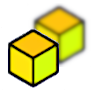
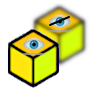
Implemented swap visible functionality

Changed region(s): [[0.234, 0.383, 0.4894, 0.5957], [0.5106, 0.1489, 0.766, 0.2979], [0.5106, 0.3191, 0.766, 0.3404]]

diff --git a/GLWidget.cpp b/GLWidget.cpp
@@ -673,7 +673,7 @@ void GLWidget::updateBoundingSphere()
     _boundingSphere.setCenter(0, 0, 0);
     _boundingSphere.setRadius(0.0);
 
-    for (int i : _displayedObjectsIds)
+    for (int i : _visibleSwapped ? _hiddenObjectsIds : _displayedObjectsIds)
     {
         try
         {
@@ -856,6 +856,14 @@ void GLWidget::showModelLoadingProgress(int nodeNum, int totalNodes)
     MainWindow::showStatusMessage(QString("Processing node: %1/%2").arg(nodeNum).arg(totalNodes));
     MainWindow::setProgressValue((int)((float)nodeNum/(float)totalNodes*100.0f));
     makeCurrent();
+}
+
+void GLWidget::swapVisible(bool checked)
+{
+    _visibleSwapped = checked;
+    updateBoundingSphere();
+    fitAll();
+    emit visibleSwapped(checked);
 }
 
 void GLWidget::enableADSDiffuseTexMap(const std::vector<int>& ids, const bool& enable)
@@ -2283,12 +2291,18 @@ void GLWidget::resizeGL(int width, int height)
 
 void GLWidget::paintGL()
 {
+    QColor topColor = !_visibleSwapped ? _bgTopColor : QColor::fromRgbF(1.0f - _bgTopColor.redF(),
+                                                             1.0f - _bgTopColor.greenF(), 1.0f - _bgTopColor.blueF(),
+                                                             _bgTopColor.alphaF());
+    QColor botColor = !_visibleSwapped ? _bgBotColor : QColor::fromRgbF(1.0f - _bgBotColor.redF(),
+                                                             1.0f - _bgBotColor.greenF(), 1.0f - _bgBotColor.blueF(),
+                                                             _bgBotColor.alphaF());
     try
     {
         glClear(GL_COLOR_BUFFER_BIT | GL_DEPTH_BUFFER_BIT | GL_STENCIL_BUFFER_BIT);
 
-        gradientBackground(_bgTopColor.redF(), _bgTopColor.greenF(), _bgTopColor.blueF(), _bgTopColor.alphaF(),
-                           _bgBotColor.redF(), _bgBotColor.greenF(), _bgBotColor.blueF(), _bgBotColor.alphaF());
+        gradientBackground(topColor.redF(), topColor.greenF(), topColor.blueF(), topColor.alphaF(),
+                           botColor.redF(), botColor.greenF(), botColor.blueF(), botColor.alphaF());
 
         _modelMatrix.setToIdentity();
         if (_multiViewActive)
@@ -2296,8 +2310,8 @@ void GLWidget::paintGL()
             glViewport(0, 0, width(), height());
             if (_shadowsEnabled)
                 renderToShadowBuffer();
-            gradientBackground(_bgTopColor.redF(), _bgTopColor.greenF(), _bgTopColor.blueF(), _bgTopColor.alphaF(),
-                               _bgBotColor.redF(), _bgBotColor.greenF(), _bgBotColor.blueF(), _bgBotColor.alphaF());
+            gradientBackground(topColor.redF(), topColor.greenF(), topColor.blueF(), topColor.alphaF(),
+                               botColor.redF(), botColor.greenF(), botColor.blueF(), botColor.alphaF());
             // Render orthographic views with ortho view camera
             // Top View
             _orthoViewsCamera->setScreenSize(width() / 2, height() / 2);
@@ -2345,8 +2359,8 @@ void GLWidget::paintGL()
 
             glClear(GL_COLOR_BUFFER_BIT | GL_DEPTH_BUFFER_BIT);
 
-            gradientBackground(_bgTopColor.redF(), _bgTopColor.greenF(), _bgTopColor.blueF(), _bgTopColor.alphaF(),
-                               _bgBotColor.redF(), _bgBotColor.greenF(), _bgBotColor.blueF(), _bgBotColor.alphaF());
+            gradientBackground(topColor.redF(), topColor.greenF(), topColor.blueF(), topColor.alphaF(),
+                               botColor.redF(), botColor.greenF(), botColor.blueF(), botColor.alphaF());
             render(_primaryCamera);
             drawCornerAxis();
         }
@@ -2507,7 +2521,7 @@ void GLWidget::drawMesh(QOpenGLShaderProgram* prog)
     // Render
     if (_meshStore.size() != 0)
     {
-        for (int i : _displayedObjectsIds)
+        for (int i : _visibleSwapped ? _hiddenObjectsIds : _displayedObjectsIds)
         {
             try
             {
@@ -2656,7 +2670,7 @@ void GLWidget::drawVertexNormals()
 
     if (_meshStore.size() != 0)
     {
-        for (int i : _displayedObjectsIds)
+        for (int i : _visibleSwapped ? _hiddenObjectsIds : _displayedObjectsIds)
         {
             if (_showVertexNormals)
             {
@@ -2675,7 +2689,7 @@ void GLWidget::drawFaceNormals()
 
     if (_meshStore.size() != 0)
     {
-        for (int i : _displayedObjectsIds)
+        for (int i : _visibleSwapped ? _hiddenObjectsIds : _displayedObjectsIds)
         {
             if (_showFaceNormals)
             {
@@ -3031,7 +3045,7 @@ void GLWidget::renderToShadowBuffer()
     _shadowMappingShader->setUniformValue("model", _modelMatrix);
     if (_meshStore.size() != 0)
     {
-        for (int i : _displayedObjectsIds)
+        for (int i : _visibleSwapped ? _hiddenObjectsIds : _displayedObjectsIds)
         {
             try
             {
@@ -3435,7 +3449,7 @@ void GLWidget::keyPressEvent(QKeyEvent* event)
         if(event->modifiers()& Qt::ShiftModifier)
             _viewer->showOnlySelectedItems();
         else
-            _viewer->hideSelectedItems();
+            _visibleSwapped ? _viewer->showSelectedItems() : _viewer->hideSelectedItems();
     }
 
     update();
@@ -3748,7 +3762,8 @@ int GLWidget::mouseSelect(const QPoint& pixel)
 {
     int id = -1;
 
-    if (!_displayedObjectsIds.size())
+    //if (!_displayedObjectsIds.size())
+    if(_visibleSwapped ? !_hiddenObjectsIds.size() : !_displayedObjectsIds.size())
     {
         emit singleSelectionDone(id);
         return id;
@@ -3779,7 +3794,7 @@ int GLWidget::mouseSelect(const QPoint& pixel)
     auto start = high_resolution_clock::now();
 
     QMap<int, float> selectedIdsDist;
-    for (int i : _displayedObjectsIds)
+    for (int i : _visibleSwapped ? _hiddenObjectsIds : _displayedObjectsIds)
     {
         TriangleMesh* mesh = _meshStore.at(i);
         if (mesh->getBoundingSphere().intersectsWithRay(rayPos, rayDir))
@@ -3836,7 +3851,8 @@ QList<int> GLWidget::sweepSelect(const QPoint& pixel)
 {
     _selectedIDs.clear();
 
-    if (!_displayedObjectsIds.size())
+    //if (!_displayedObjectsIds.size())
+    if(_visibleSwapped ? !_hiddenObjectsIds.size() : !_displayedObjectsIds.size())
         return _selectedIDs;
 
     QRect rubberRect = _rubberBand->geometry();
@@ -3847,7 +3863,7 @@ QList<int> GLWidget::sweepSelect(const QPoint& pixel)
 
     QRect viewport = getViewportFromPoint(pixel);
     QApplication::setOverrideCursor(Qt::WaitCursor);
-    for (int i : _displayedObjectsIds)
+    for (int i : _visibleSwapped ? _hiddenObjectsIds : _displayedObjectsIds)
     {
         TriangleMesh* mesh = _meshStore.at(i);
         QRect objRect = mesh->getBoundingBox().project(_viewMatrix * _modelMatrix, _projectionMatrix, viewport, geometry());
@@ -4212,7 +4228,7 @@ void GLWidget::setXTran(const float& xTran)
 float GLWidget::highestModelZ()
 {
     float highestZ = std::numeric_limits<float>::min();
-    for (int i : _displayedObjectsIds)
+    for (int i : _visibleSwapped ? _hiddenObjectsIds : _displayedObjectsIds)
     {
         try
         {
@@ -4233,7 +4249,7 @@ float GLWidget::highestModelZ()
 float GLWidget::lowestModelZ()
 {
     float lowestZ = std::numeric_limits<float>::max();
-    for (int i : _displayedObjectsIds)
+    for (int i : _visibleSwapped ? _hiddenObjectsIds : _displayedObjectsIds)
     {
         try
         {
@@ -4283,6 +4299,11 @@ void GLWidget::showContextMenu(const QPoint& pos)
             myMenu.addAction(QIcon(":/new/prefix1/res/zoomview.png"), "Zoom", _viewer, SLOT(on_toolButtonZoomView_clicked()));
             myMenu.addAction(QIcon(":/new/prefix1/res/panview.png"), "Pan", _viewer, SLOT(on_toolButtonPanView_clicked()));
             myMenu.addAction(QIcon(":/new/prefix1/res/rotateview.png"), "Rotate", _viewer, SLOT(on_toolButtonRotateView_clicked()));
+            myMenu.addSeparator();
+            action = myMenu.addAction(QIcon(":/new/prefix1/res/swapvisible.png"), "Swap Visible");
+            action->setCheckable(true);
+            action->setChecked(_visibleSwapped);
+            connect(action, SIGNAL(triggered(bool)), _viewer, SLOT(on_toolButtonSwapVisible_clicked(bool)));
             myMenu.addSeparator();
             myMenu.addAction("Background Color", this, SLOT(setBackgroundColor()));
         }

diff --git a/ModelViewer.cpp b/ModelViewer.cpp
@@ -107,10 +107,11 @@ ModelViewer::ModelViewer(QWidget* parent) : QWidget(parent)
     connect(_glWidget, &GLWidget::windowZoomEnded, this, [this](){
                 if(toolButtonWindowZoom->isChecked())
                     toolButtonWindowZoom->setChecked(false);
-    });
+    });    
 	connect(_glWidget, SIGNAL(singleSelectionDone(int)), this, SLOT(setListRow(int)));
 	connect(_glWidget, SIGNAL(sweepSelectionDone(QList<int>)), this, SLOT(setListRows(QList<int>)));
 	connect(_glWidget, SIGNAL(floorShown(bool)), checkBoxFloor, SLOT(setChecked(bool)));
+    connect(_glWidget, SIGNAL(visibleSwapped(bool)), toolButtonSwapVisible, SLOT(setChecked(bool)));
 
 	listWidgetModel->setContextMenuPolicy(Qt::CustomContextMenu);
 	connect(listWidgetModel, SIGNAL(customContextMenuRequested(QPoint)), this, SLOT(showContextMenu(QPoint)));
@@ -645,6 +646,7 @@ void ModelViewer::showSelectedItems()
 	for (QListWidgetItem* item : selectedItems)
 	{
 		item->setCheckState(Qt::Checked);
+        item->setSelected(false);
 	}
 }
 
@@ -2801,4 +2803,9 @@ void ModelViewer::on_pushButtonClearADSTextures_clicked()
 		_glWidget->updateView();
 		QApplication::restoreOverrideCursor();
 	}
+}
+
+void ModelViewer::on_toolButtonSwapVisible_clicked(bool checked)
+{
+    _glWidget->swapVisible(checked);
 }

diff --git a/GLWidget.h b/GLWidget.h
@@ -229,6 +229,7 @@ signals:
 	void singleSelectionDone(int);
 	void sweepSelectionDone(QList<int>);
 	void floorShown(bool);
+    void visibleSwapped(bool);
 
 public slots:
 	void animateViewChange();
@@ -254,6 +255,7 @@ public slots:
 	void showFileReadingProgress(float percent);
 	void showMeshLoadingProgress(float percent);
     void showModelLoadingProgress(int nodeNum, int totalNodes);
+    void swapVisible(bool checked);
 
 private slots:
 	void showContextMenu(const QPoint& pos);

diff --git a/ModelViewer.h b/ModelViewer.h
@@ -198,6 +198,8 @@ private slots:
 	void on_pushButtonApplyADSTexture_clicked();
 	void on_pushButtonClearADSTextures_clicked();
 
+    void on_toolButtonSwapVisible_clicked(bool checked);
+
 protected:
 	void showEvent(QShowEvent* event);
 	void keyPressEvent(QKeyEvent* event);
